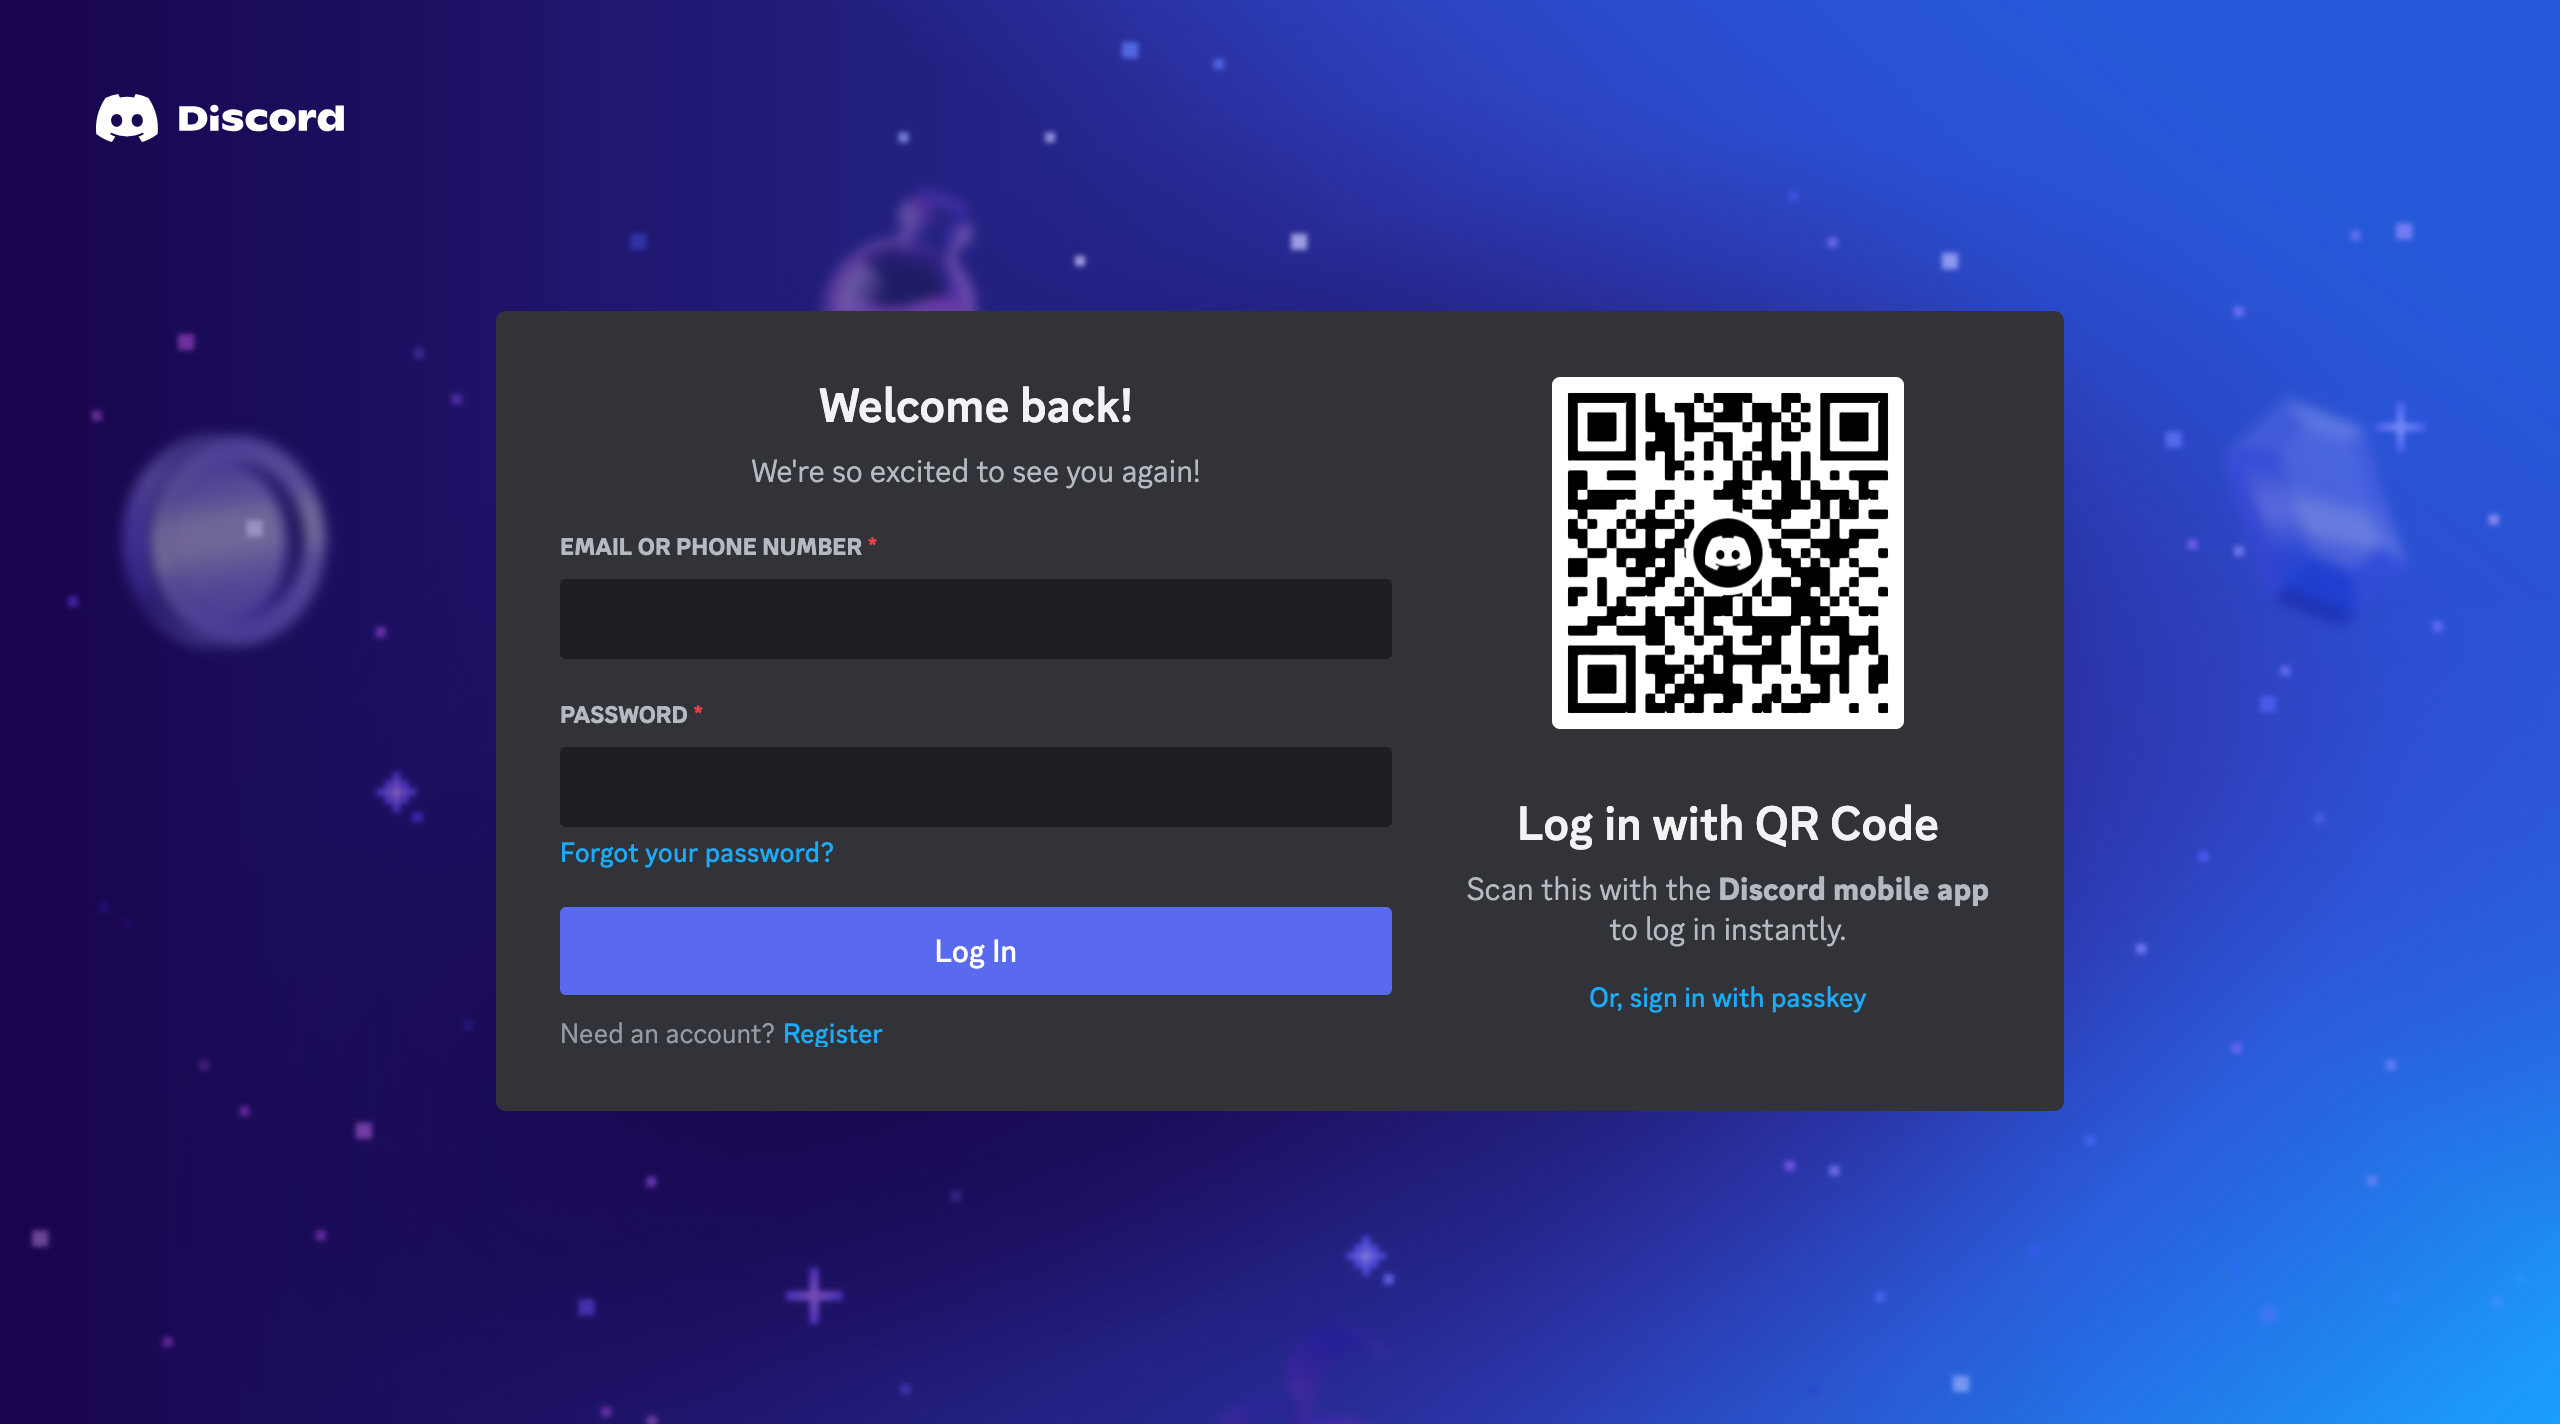
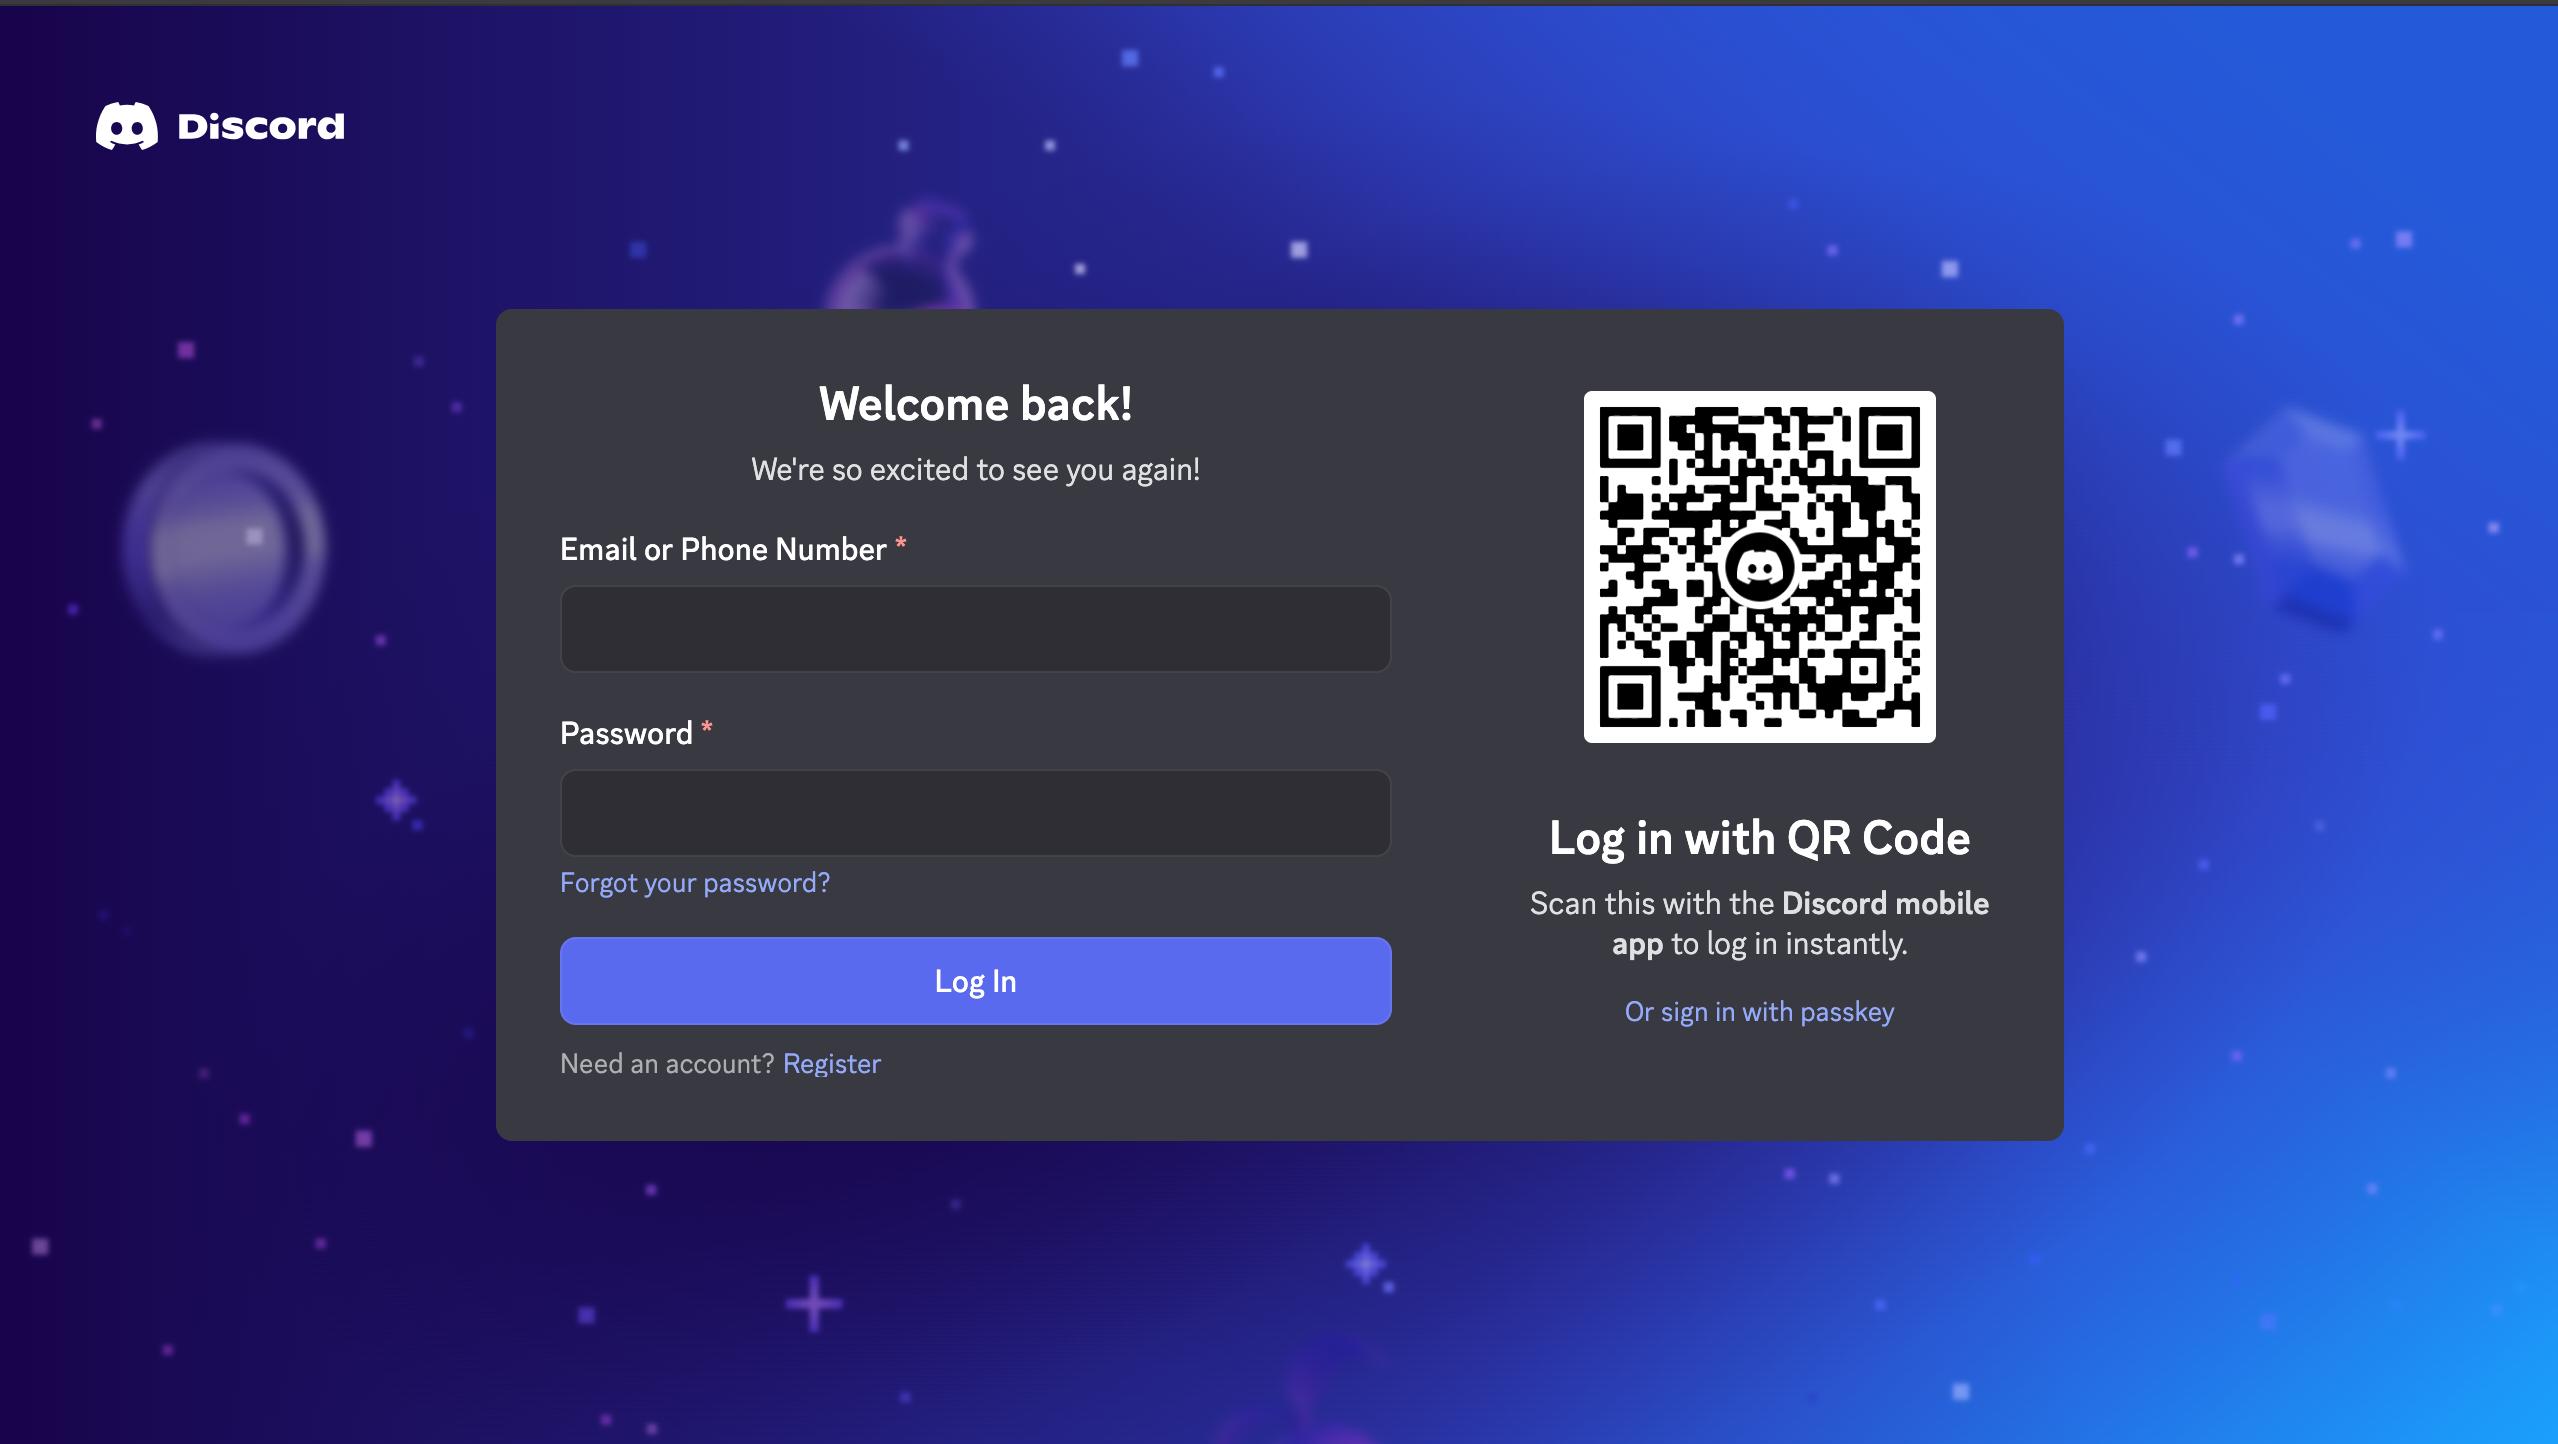
v2.0: Update UI to match Discord login page exactly yet again
- Refine color palette to match Discord's latest design system
   - Enhance input styling with modern 8px border-radius and focus states
   - Improve typography with updated font weights, sizes, and line heights
   - Change form labels from uppercase to proper case for better readability
   - Polish UI details including spacing, padding, and visual consistency

diff --git a/css/main.css b/css/main.css
@@ -48,14 +48,19 @@ input {
   background: var(--input-bg);
   font-family: inherit;
   color: var(--input-color);
-  border-radius: 3px;
-  padding: 10px;
-  border: none;
+  border-radius: 8px;
+  padding: 12px 10px;
+  border: 1px solid oklab(0.678888 0.00325716 -0.011175 / 0.2);
   outline: none;
-  height: 40px;
+  height: 44px;
   font-size: 16px;
   font-weight: 400;
   width: 100%;
+  transition: border-color 0.2s ease-in-out;
+
+  &:focus {
+    border: 1px solid oklab(0.74783 -0.0289609 -0.111271);
+  }
 }
 
 a {
@@ -96,7 +101,7 @@ a:hover {
   width: 784px;
   /* width: 100%; */
   padding: 32px;
-  border-radius: 5px;
+  border-radius: 8px;
   display: none;
   /* animation: animateAuthBox 1s linear; */
 
@@ -138,21 +143,26 @@ a:hover {
 
       h2 {
         margin-bottom: 8px;
-        line-height: 1.25;
+        line-height: 30px;
         font-weight: 600;
         font-size: 24px;
       }
       p {
         font-size: 16px;
         font-weight: 400;
-        line-height: 1.25;
+        line-height: 20px;
+        width: 240px;
+
+        strong {
+          font-weight: 600;
+        }
       }
       a {
         padding: 2px 16px;
         margin-top: 15px;
         margin-bottom: 15px;
         font-size: 14px;
-        font-weight: 500;
+        font-weight: 400;
       }
     }
   }
@@ -192,9 +202,9 @@ a:hover {
 
           label {
             color: var(--label-color);
-            font-weight: 700;
-            font-size: 12px;
-            line-height: 1.3333333333333333;
+            font-weight: 500;
+            font-size: 16px;
+            line-height: 20px;
 
             span {
               color: var(--required-color);
@@ -209,7 +219,7 @@ a:hover {
 
         a {
           font-size: 14px;
-          font-weight: 500;
+          font-weight: 400;
         }
       }
 
@@ -219,10 +229,10 @@ a:hover {
           width: 416px;
           background: var(--btn-bg);
           color: #fff;
-          padding: 2px 16px;
-          border: none;
+          padding: 7px 15px;
+          border: 1px solid rgba(255, 255, 255, 0.08);
           outline: none;
-          border-radius: 3px;
+          border-radius: 8px;
           line-height: 24px;
           font-family: inherit;
           font-size: 16px;
@@ -248,7 +258,7 @@ a:hover {
 
         a {
           font-size: 14px;
-          font-weight: 500;
+          font-weight: 400;
         }
         span {
           color: var(--need-account);

diff --git a/index.html b/index.html
@@ -30,14 +30,14 @@
                             </div>
                             <div class="email-wrapper">
                                 <label for="emailORphone">
-                                    EMAIL OR PHONE NUMBER
+                                    Email or Phone Number
                                     <span class="required">*</span>
                                 </label>
-                                <input type="text" id="emailORphone" required>
+                                <input type="text" id="emailORphone" required autocomplete="off">
                             </div>
                             <div class="password-wrapper">
                                 <label for="password">
-                                    PASSWORD
+                                    Password
                                     <span class="required">*</span>
                                 </label>
                                 <input type="password" id="password" required>
@@ -82,7 +82,7 @@
                         </div>
                         <h2>Log in with QR Code</h2>
                         <p>Scan this with the <strong>Discord mobile app</strong> to log in instantly.</p>
-                        <a href="#">Or, sign in with passkey</a>
+                        <a href="#">Or sign in with passkey</a>
                     </div>
                 </div>
 

diff --git a/css/index.css b/css/index.css
@@ -3,19 +3,19 @@
     sans-serif, "Apple Symbols";
 
   /* COLORS */
-  --headline-color: oklab(0.963963 -0.000228554 -0.00283051);
-  --form-background: oklab(0.321088 -0.000220731 -0.00934622);
-  --normal-text-color: oklab(0.786807 -0.0025776 -0.0110238);
-  --input-bg: oklab(0.23892 0.000131361 -0.00592163);
-  --input-color: oklab(0.899401 -0.00192499 -0.00481987);
-  --label-color: oklab(0.786807 -0.0025776 -0.0110238);
-  --required-color: rgb(242, 63, 66);
+  --headline-color: oklab(0.999994 0.0000455678 0.0000200868);
+  --form-background: oklab(0.35016 0.00197881 -0.0119994);
+  --normal-text-color: oklab(0.906424 -0.000235766 -0.0028885);
+  --input-bg: oklab(0 0 0 / 0.2);
+  --input-color: oklab(0.906424 -0.000235766 -0.0028885);
+  --label-color: oklab(0.999994 0.0000455678 0.0000200868);
+  --required-color: oklab(0.772044 0.119344 0.0515409);
   --btn-bg: rgb(88, 101, 242);
   --btn-bg-hover: rgb(71, 82, 196);
   --wandering-cubes-color: rgb(121, 131, 245);
-  --link-color: oklab(0.700834 -0.0780351 -0.1469);
+  --link-color: oklab(0.747617 0.00671133 -0.126112);
 
-  --need-account: oklab(0.686679 -0.00398019 -0.0150182);
+  --need-account: oklab(0.751834 0.00131807 -0.008479);
 }
 
 * {

diff --git a/README.md b/README.md
@@ -2,15 +2,41 @@
 
 A pixel-perfect clone of the Discord login page built using HTML, CSS, and JavaScript.
 
-![Discord Login Page Clone Screenshot](./discord-login-page-clone-screenshot.png)
 
-## 🔥 Features
+## 🆕 Version 2.0
 
-- 🎯 **Pixel-perfect UI** – Faithfully replicates Discord’s login page layout and design.
+**Everything has been updated to match the Discord login page exactly yet again!** This update includes:
+
+- **Refined color palette** – Updated to match Discord's latest design system
+- **Enhanced input styling** – Modern rounded corners (8px), improved borders, and focus states
+- **Improved typography** – Updated font weights, sizes, and line heights for better accuracy
+- **Better form labels** – Changed from uppercase to proper case for improved readability
+- **Polished UI details** – Refined spacing, padding, and visual consistency
+
+## 📸 Side-by-Side Comparison
+
+<div align="center">
+  <table>
+    <tr>
+      <td align="center">
+        <strong>Clone</strong><br/>
+        <img src="./discord-login-page-clone-screenshot.png" alt="QR Code Discord Logo" width="400"/>
+      </td>
+      <td align="center">
+        <strong>Original Discord Login</strong><br/>
+        <img src="./discord-login-original.png" alt="Original Discord Login Page" width="400"/>
+      </td>
+    </tr>
+  </table>
+</div>
+
+##  Features
+
+- 🎯 **Pixel-perfect UI** – Faithfully replicates Discord's login page layout and design.
 - 🔁 **Animated QR Code Refresh** – Simulates the QR refresh behavior with smooth animations.
 - 🧼 **Clean, Commented Code** – Easy to read and modify for learning or reuse.
 
-## 🚀 Installation
+##  Installation
 
 1. **Clone the repository:**
    ```sh
